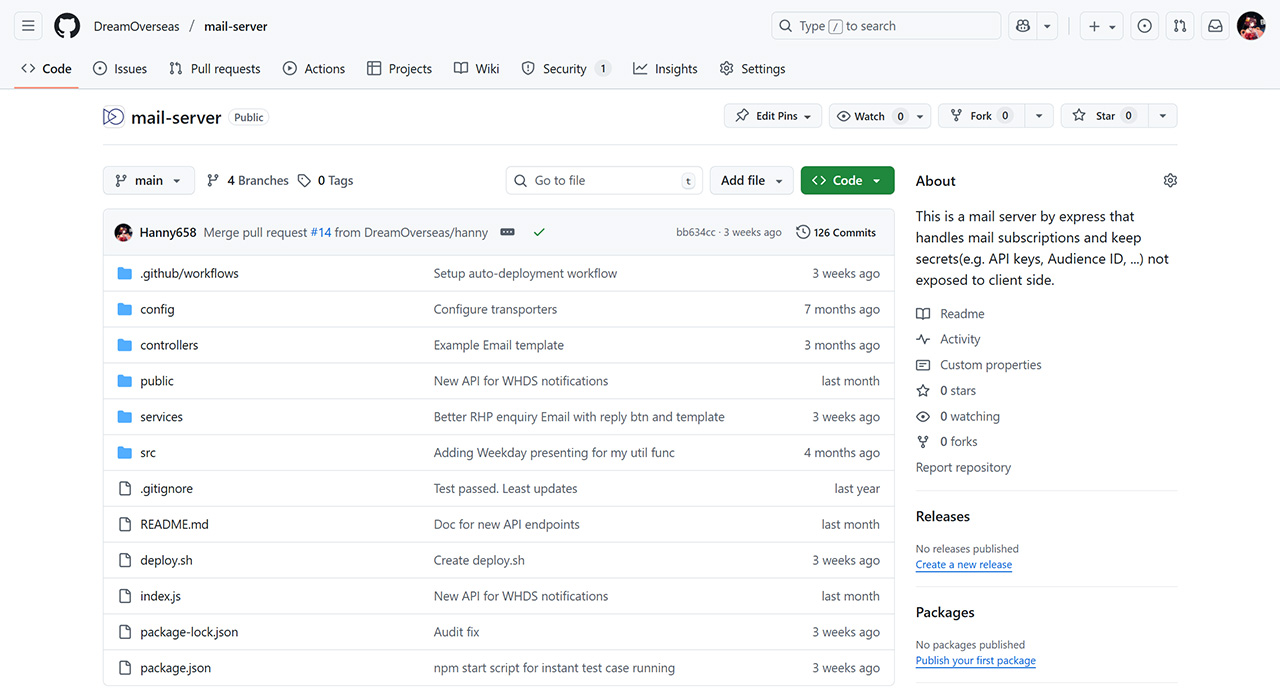
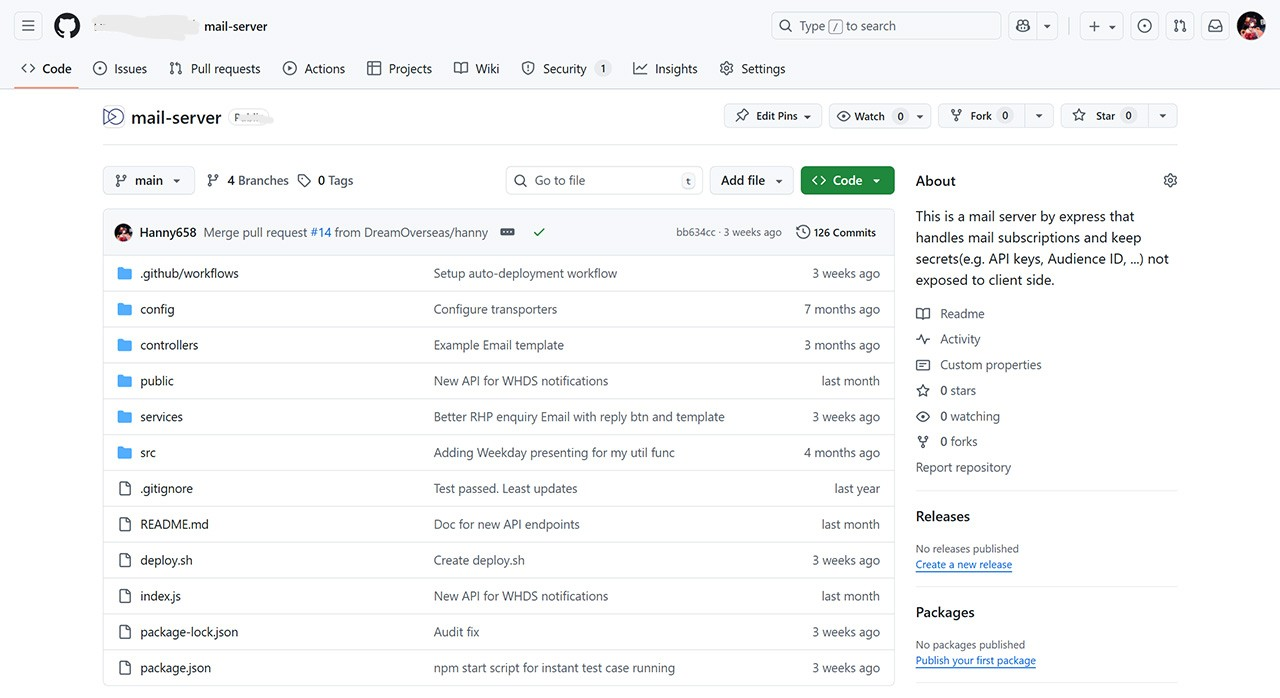
New mod for portfolio

diff --git a/src/app/portfolio/page.tsx b/src/app/portfolio/page.tsx
@@ -8,7 +8,7 @@ import Link from "next/link";
 type Project = {
     title: string;
     image: string; // path relative to /public/portfolio/
-    link: string | "this" | "private";
+    link: string | "this" | "private" | "maintainance";
     description: string;
     icon: string; // Bootstrap icon classname
 };
@@ -32,7 +32,8 @@ const projects: Project[] = [
     {
         title: "Snack Map",
         image: "/portfolio/snackmap.jpg",
-        link: "https://snackmap.org",
+        // link: "https://snackmap.org",
+        link: "maintainance",
         description: "My personal project, initiated as people called me 'the King of Snacks', so I want to share my information about affordable snacks around me, as well as letting people like me to share their favorite deals. Built with Next.js + Prisma + PostgreSQL (Redis in progress).",
         icon: "bi bi-map",
     },
@@ -162,14 +163,20 @@ export default function PersonalPortfolioPage() {
                                         <p className="mt-4 inline-block !text-sky-600 !text-right font-medium self-end">
                                             This is an internal / private system
                                         </p>
-                                        :
-                                        <Link
-                                            href={project.link}
-                                            target="_blank"
-                                            className="mt-4 inline-block !text-sky-500 hover:text-sky-600 !text-right font-medium hover:underline self-end"
-                                        >
-                                            Visit Page →
-                                        </Link>
+                                        : (
+                                        project.link == "maintainance" ?
+                                            <p className="mt-4 inline-block !text-sky-600 !text-right font-medium self-end">
+                                                Currently under maintainance~
+                                            </p>
+                                            :
+                                            <Link
+                                                href={project.link}
+                                                target="_blank"
+                                                className="mt-4 inline-block !text-sky-500 hover:text-sky-600 !text-right font-medium hover:underline self-end"
+                                            >
+                                                Visit Page →
+                                            </Link>
+                                        )
                                     )
                                 }
                         </div>
